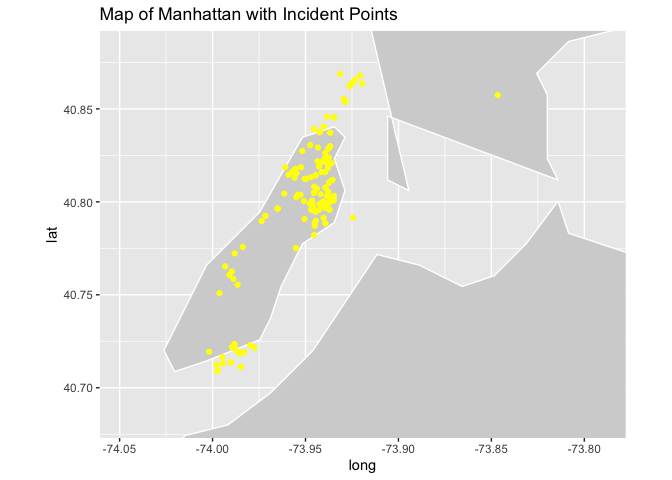
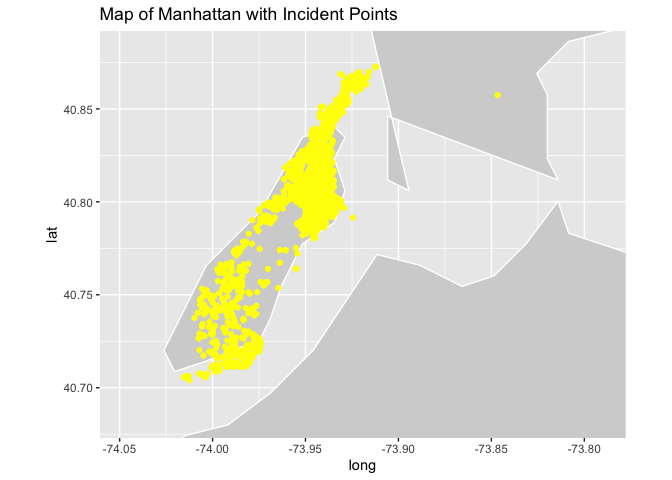
report md replace

Changed region(s): [[0.25, 0.125, 0.5625, 0.8125]]

diff --git a/report.md b/report.md
@@ -50,10 +50,13 @@ NYPD_Shooting_Incident_2006_2022 =
   janitor::clean_names() 
 ```
 
-    ## Rows: 2 Columns: 1
+    ## Rows: 27312 Columns: 21
     ## ── Column specification ────────────────────────────────────────────────────────
     ## Delimiter: ","
-    ## chr (1): version https://git-lfs.github.com/spec/v1
+    ## chr  (12): OCCUR_DATE, BORO, LOC_OF_OCCUR_DESC, LOC_CLASSFCTN_DESC, LOCATION...
+    ## dbl   (7): INCIDENT_KEY, PRECINCT, JURISDICTION_CODE, X_COORD_CD, Y_COORD_CD...
+    ## lgl   (1): STATISTICAL_MURDER_FLAG
+    ## time  (1): OCCUR_TIME
     ## 
     ## ℹ Use `spec()` to retrieve the full column specification for this data.
     ## ℹ Specify the column types or set `show_col_types = FALSE` to quiet this message.
@@ -289,19 +292,6 @@ incidents_year =
 incidents_year
 ```
 
-    ## `geom_line()`: Each group consists of only one observation.
-    ## ℹ Do you need to adjust the group aesthetic?
-    ## `geom_line()`: Each group consists of only one observation.
-    ## ℹ Do you need to adjust the group aesthetic?
-    ## `geom_line()`: Each group consists of only one observation.
-    ## ℹ Do you need to adjust the group aesthetic?
-    ## `geom_line()`: Each group consists of only one observation.
-    ## ℹ Do you need to adjust the group aesthetic?
-    ## `geom_line()`: Each group consists of only one observation.
-    ## ℹ Do you need to adjust the group aesthetic?
-    ## `geom_line()`: Each group consists of only one observation.
-    ## ℹ Do you need to adjust the group aesthetic?
-
 ![](report_files/figure-gfm/unnamed-chunk-12-1.png)<!-- -->
 
 - The number of incidents in Bronx and Brooklyn has been maintained at a
@@ -368,7 +358,7 @@ ggplot() +
   labs(title = "Map of New York City with Data Points")
 ```
 
-    ## Warning: Removed 43 rows containing missing values (`geom_point()`).
+    ## Warning: Removed 51 rows containing missing values (`geom_point()`).
 
 ![](report_files/figure-gfm/unnamed-chunk-14-1.png)<!-- -->
 
@@ -429,7 +419,7 @@ ggplot() +
   labs(title = "Map of Manhattan with Incident Points")
 ```
 
-    ## Warning: Removed 9 rows containing missing values (`geom_point()`).
+    ## Warning: Removed 13 rows containing missing values (`geom_point()`).
 
 ![](report_files/figure-gfm/unnamed-chunk-16-1.png)<!-- -->
 
